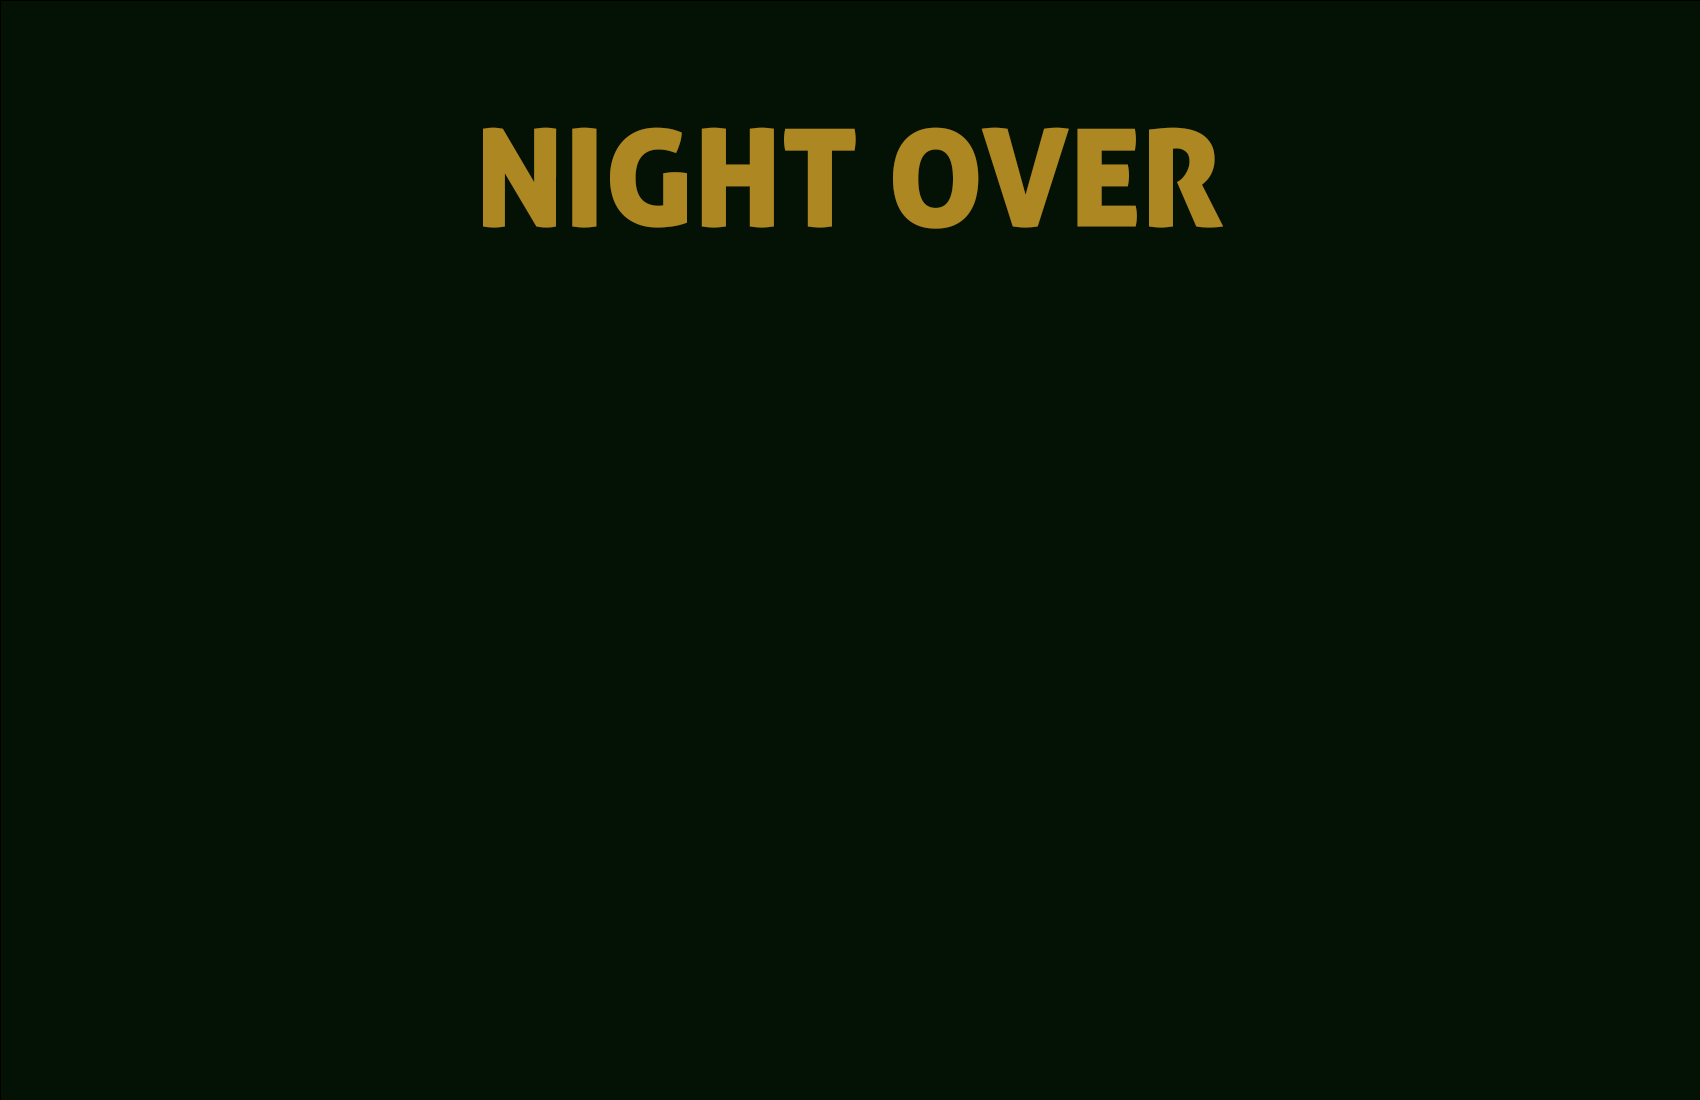
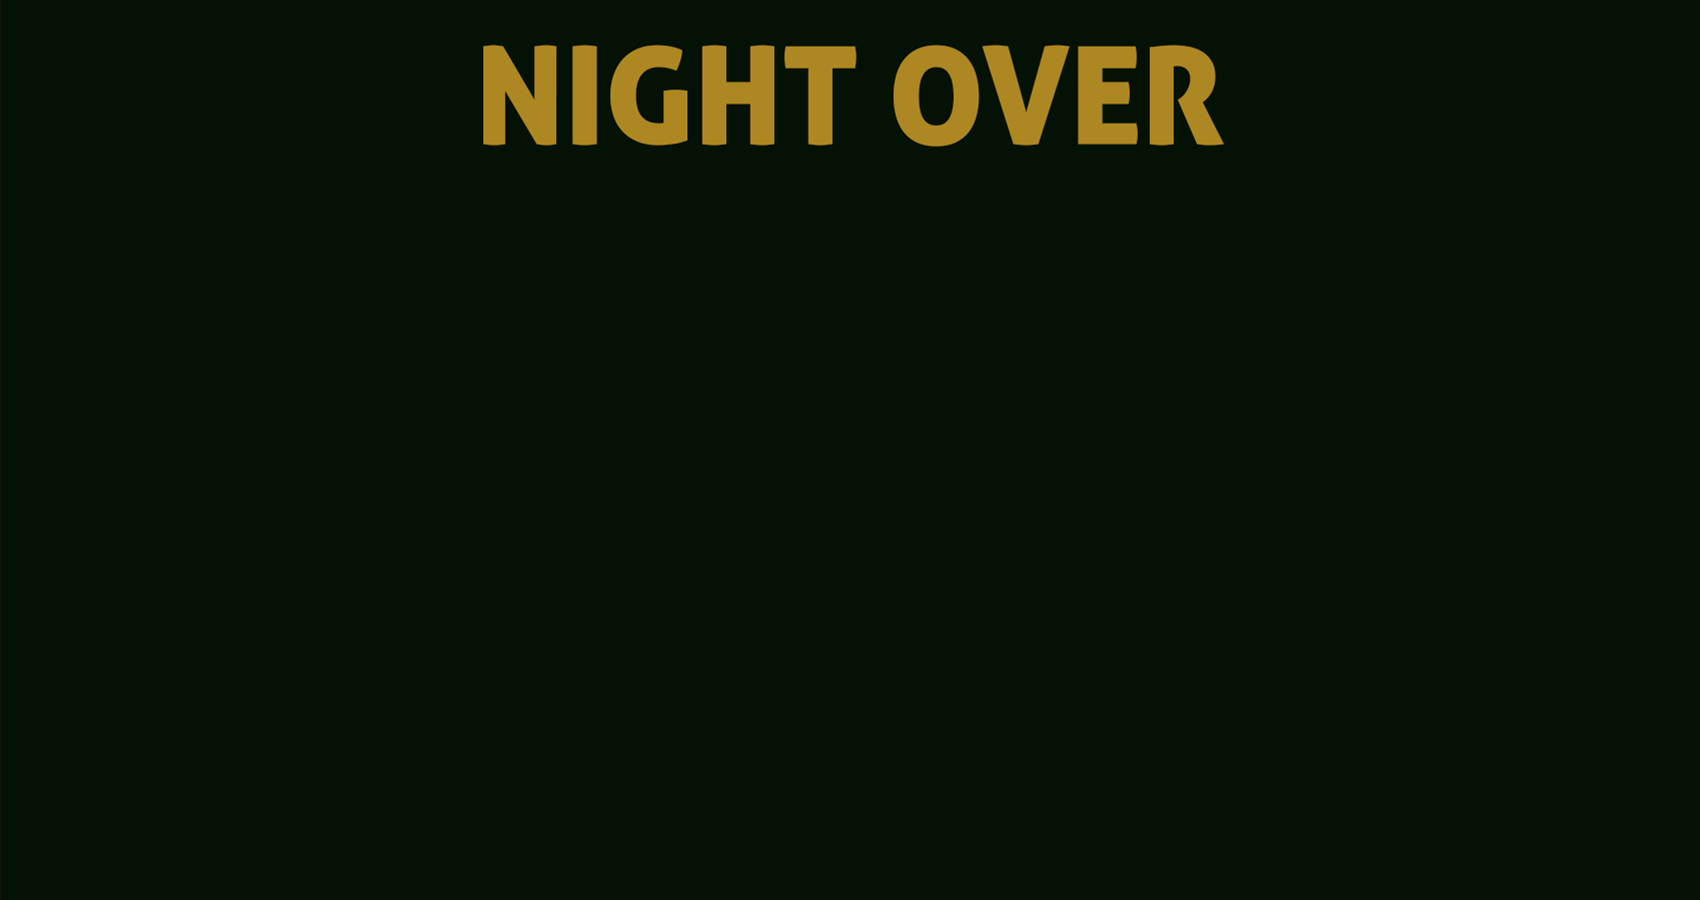
made screen smaller

Changed region(s): [[0.2806, 0.0311, 0.7171, 0.2178]]

diff --git a/src/main.cpp b/src/main.cpp
@@ -9,7 +9,7 @@ int main()
             << std::endl;
 
   // create window and set up
-  sf::RenderWindow window(sf::VideoMode(1700, 1100), "Pawprints, please!");
+  sf::RenderWindow window(sf::VideoMode(1700, 900), "Pawprints, please!");
   window.setFramerateLimit(60);
 
   //initialise an instance of the game class
